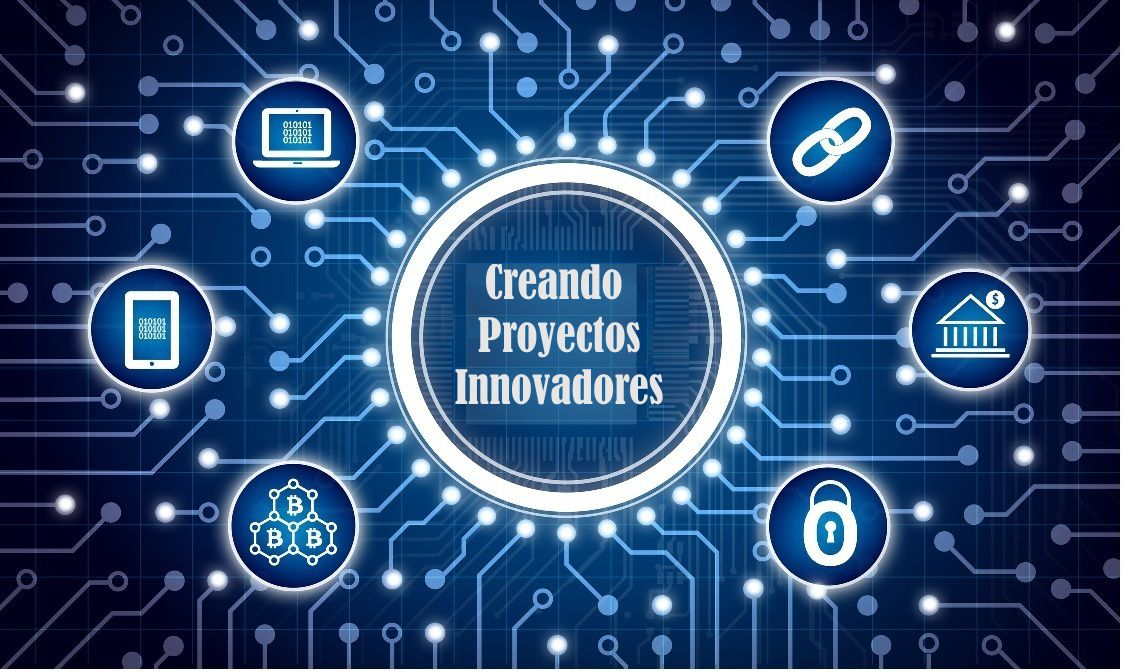
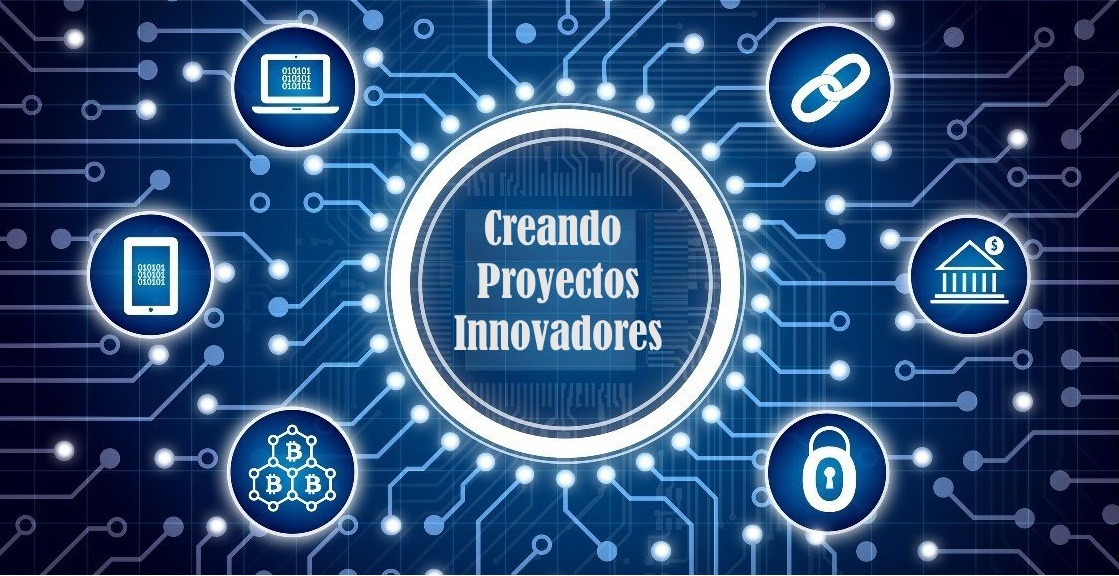
Mi web
Act cover

diff --git a/css/style.css b/css/style.css
@@ -600,11 +600,11 @@ text-shadow: 2px 0 0 #fff, -2px 0 0 #fff, 0 2px 0 #fff, 0 -2px 0 #fff, 1px 1px #
 ---------------------------------*/
 .business-talking{
 	background:url(../img/blockchain.jpg) top center;
-	background-size:cover;
+	background-size:center repeat;
 	padding:60px 0 10px;
 	text-align:center;
-	width:1500px;
-	height:850px;
+	width:auto;
+	height:550px;
 }
 .business-talking h2{
 	font-family: 'Montserrat', sans-serif;
